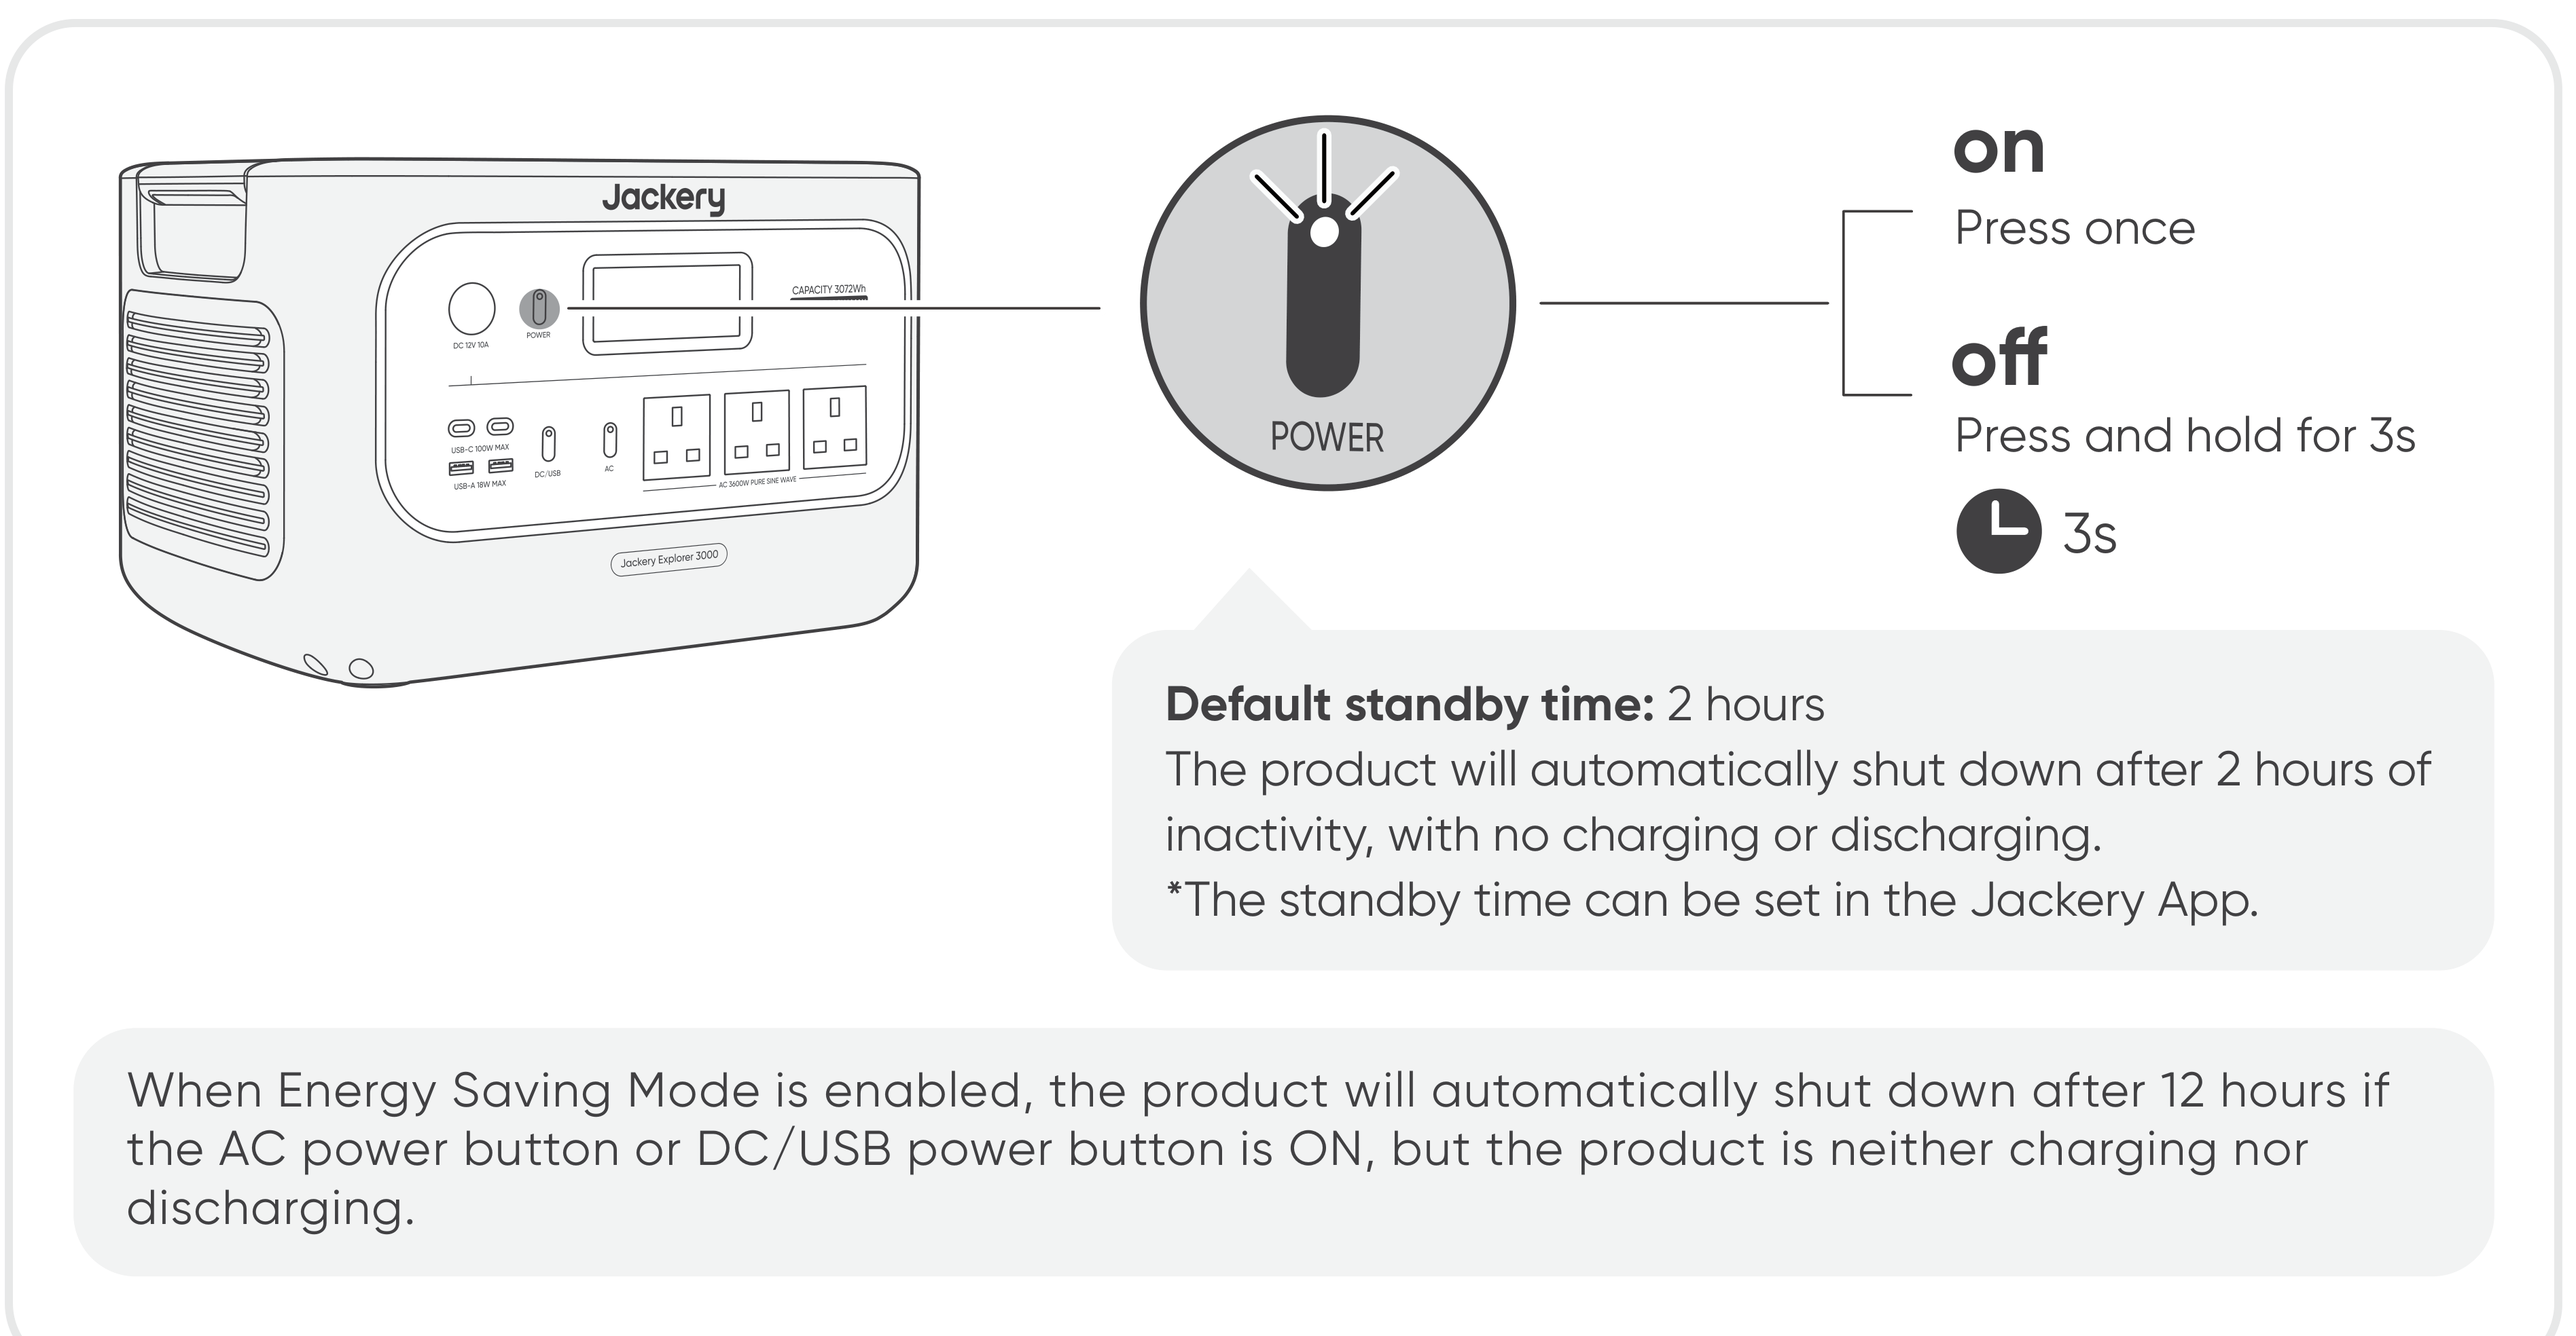
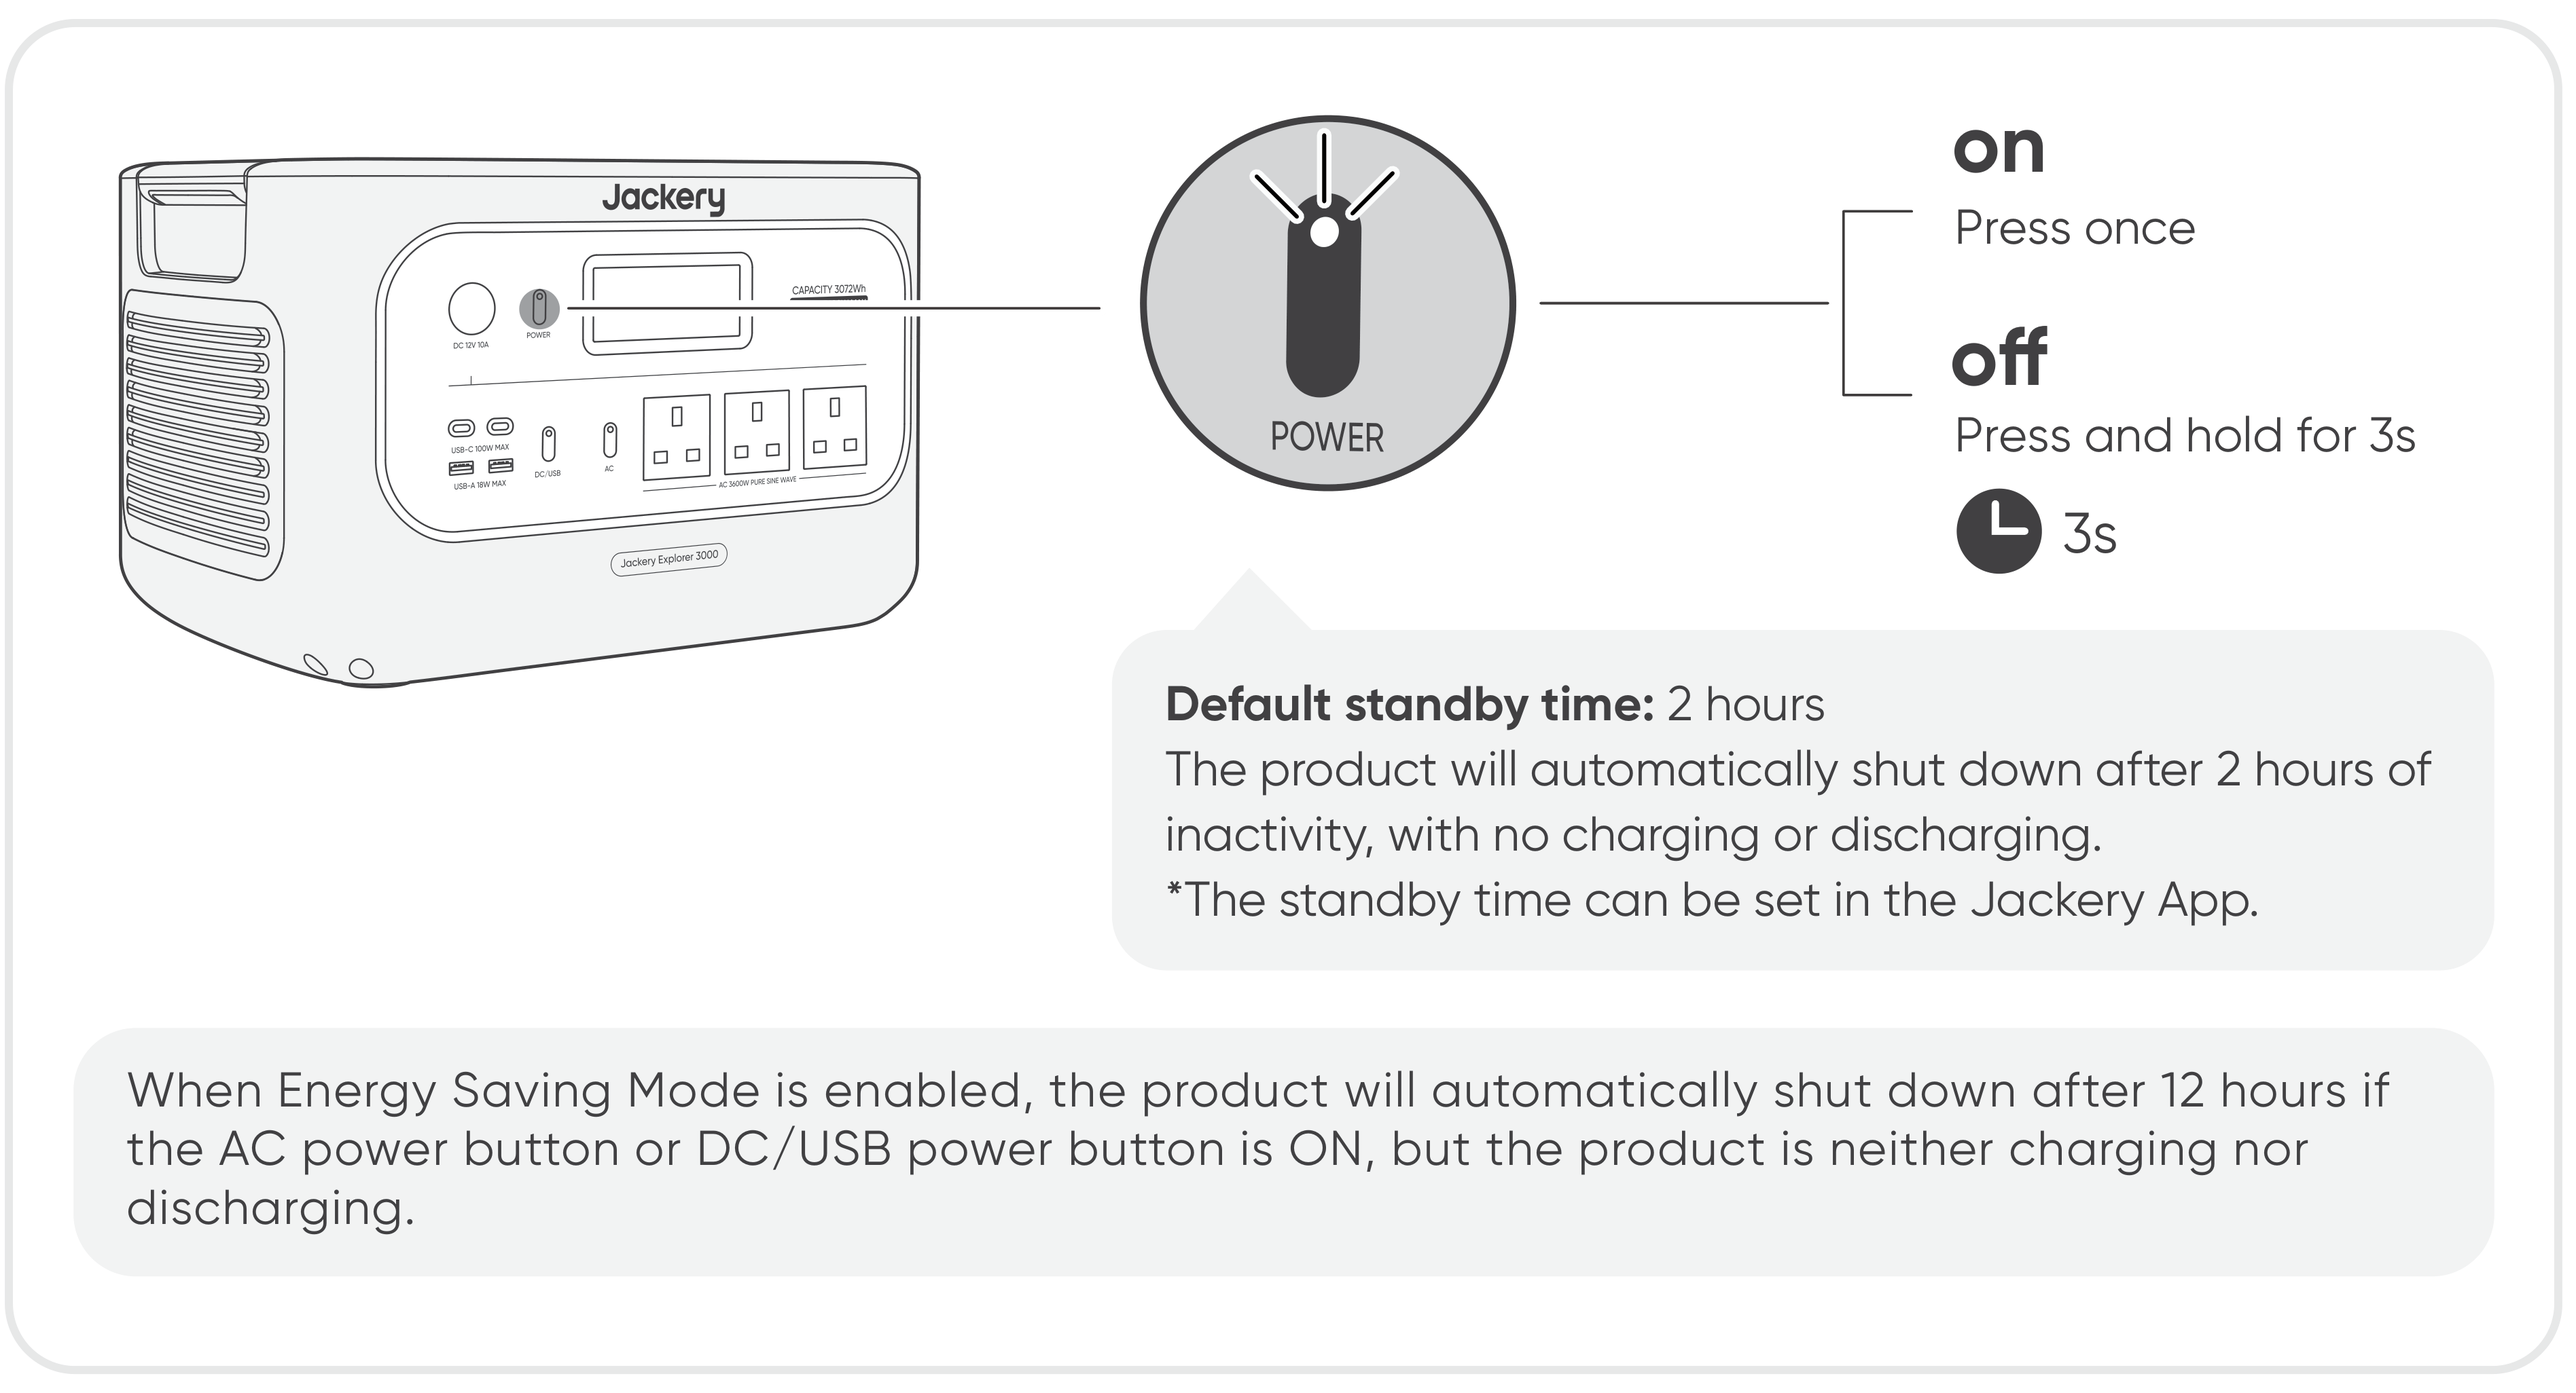
fix(web): retain JE-3000C power panel border

diff --git a/tests/test_je3000c_eu_en_web.py b/tests/test_je3000c_eu_en_web.py
@@ -169,6 +169,19 @@ class Je3000cEuEnWebTests(unittest.TestCase):
         )
         self.assertEqual(side["bbox_pt"], side_recipe["transforms"][0]["bbox_pt"])
 
+        power = next(
+            illustration
+            for illustration in manifest["illustrations"]
+            if illustration["path"].endswith("operation_power.png")
+        )
+        self.assertEqual([27, 70, 343, 241], power["bbox_pt"])
+        power_recipe = next(
+            asset
+            for asset in recipe["assets"]
+            if asset["asset_key"] == "web/je3000c/eu/en/operation_power"
+        )
+        self.assertEqual(power["bbox_pt"], power_recipe["transforms"][0]["bbox_pt"])
+
     def test_public_ir_cold_replay_and_tamper_detection(self) -> None:
         self.assertEqual(17, len(render_document_fragments(self.ir, package_root=self.package)))
         with tempfile.TemporaryDirectory() as td:
